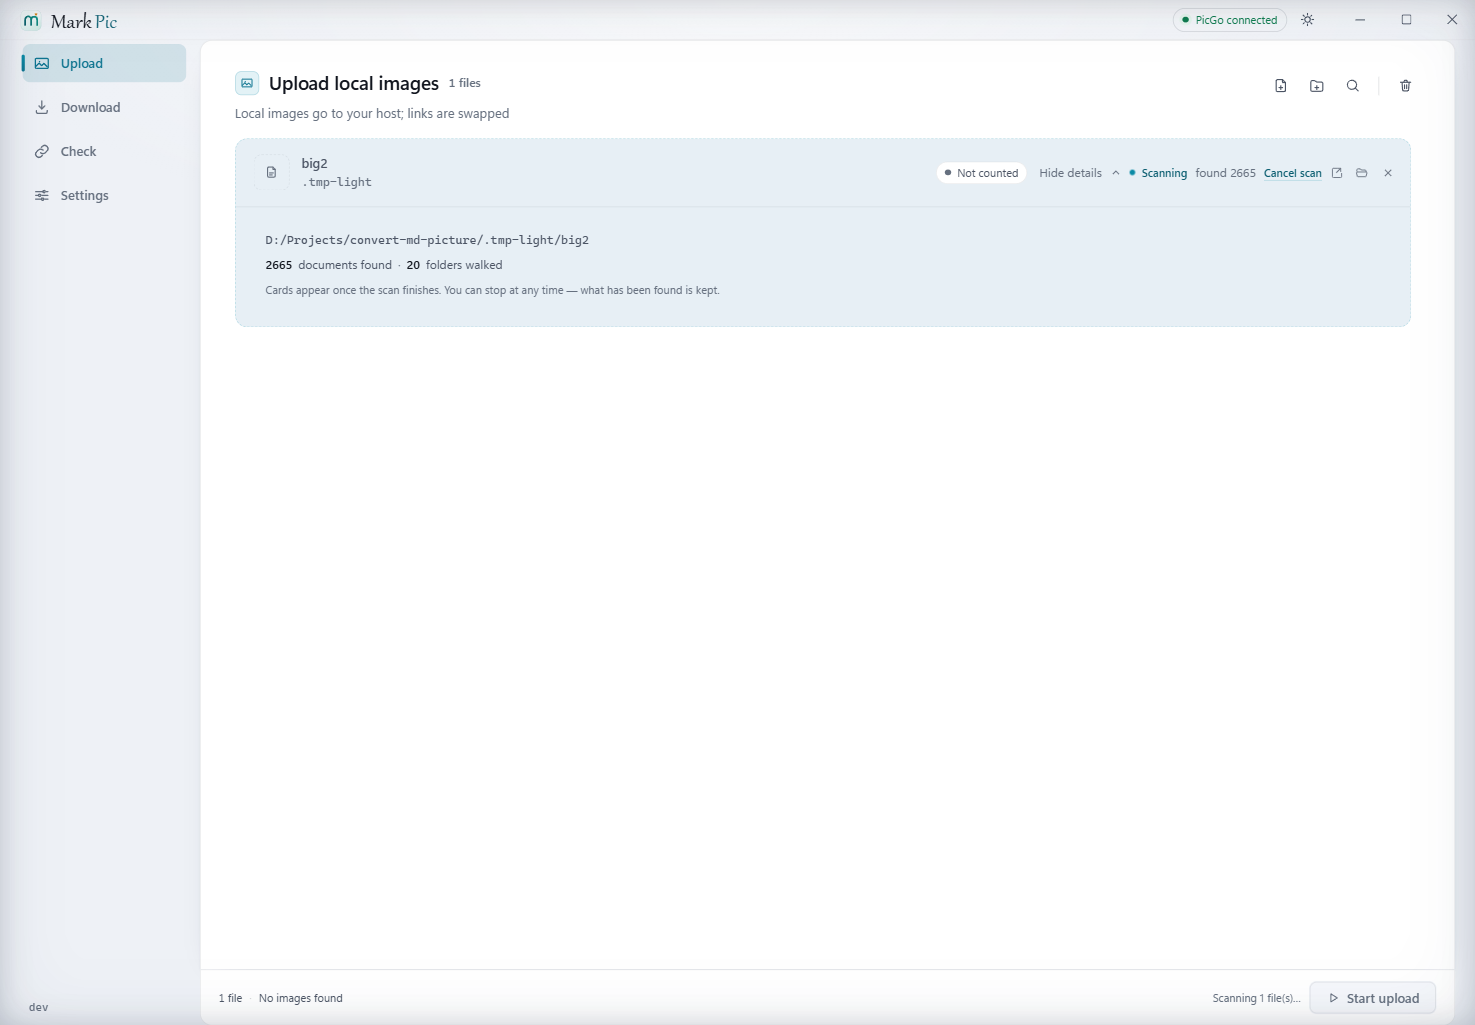
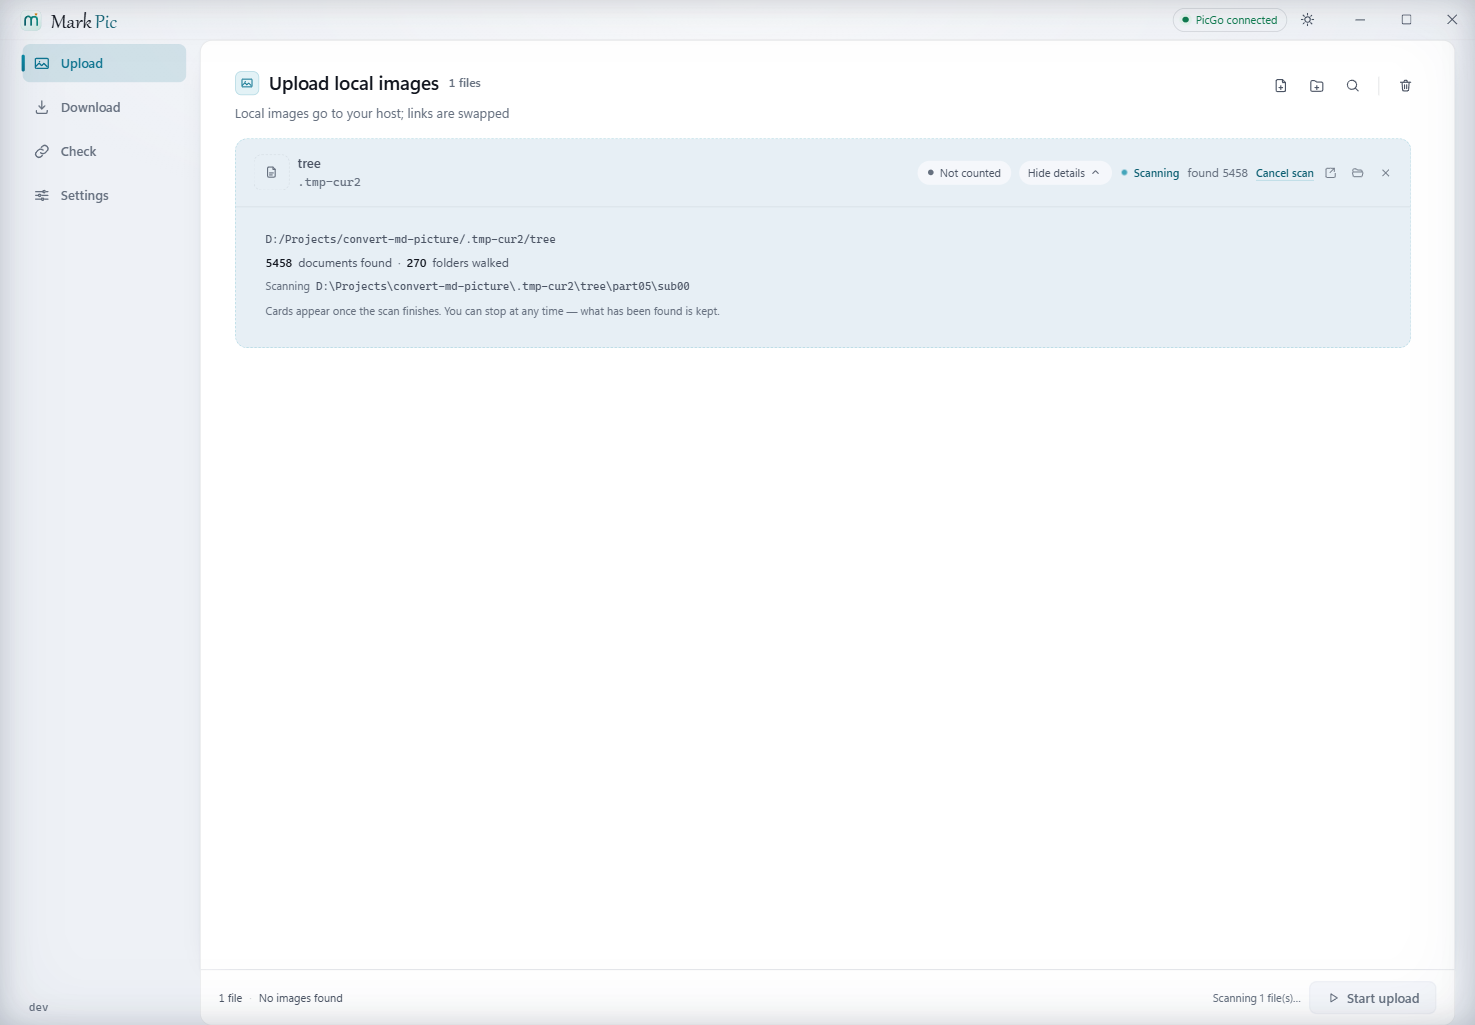
扫描：实时显示「此刻正在读的那个目录」
用户问：扫描时为什么看不到当前扫到哪个路径。原因是进度事件只带了请求的根路径、
已找到多少份、走过多少目录 —— 遍历真正在读的是哪一级子目录，从来没报过。

- conv.WalkCounts 增加 current（atomic.Value）：每个 worker 在 ReadDir 之前记下
  自己正在读的目录；并行遍历下它只是「最近开工的目录」，作为进度提示足够。
- conv.Event 增加 current 字段，scan.progress 两条发射点（每 120ms 一次、收尾一次）
  都带上它。
- 前端：目录卡展开后的扫描详情里多一行「正在扫描 <目录>」，随进度事件实时刷新；
  路径太长时掐头留尾（'…' + 末尾 72 字），把「走到哪一层」露出来，完整路径放 title。
- 截图：中英 scanning.png 都换成亮色、带这一行的版本；README 与 usage 的说明同步
  改成「实时扫描详情，包括此刻正在读的目录」。

验证：真实窗口拖 14,400 份文档的目录，取样到 current 从 part06/sub00 变为
part23/sub07；截图里能看到「正在扫描 …\tree\part13\sub01」。go test ./internal/...
全绿。

Changed region(s): [[0.1871, 0.2185, 0.499, 0.3122], [0.6237, 0.1561, 0.9044, 0.1873], [0.1871, 0.1561, 0.2495, 0.1873]]

diff --git a/web/src/components/FileRow.vue b/web/src/components/FileRow.vue
@@ -475,6 +475,18 @@ const outputLabel = computed<MessageKey>(() =>
  */
 const scanHost = computed(() => !props.row.result && (props.row.scan ?? 'idle') === 'scanning')
 
+/**
+ * 「正在扫描」的那一行路径：留尾部、掐头部。
+ *
+ * 深目录的路径长度很容易把一行撑爆，而真正能告诉用户「走到哪儿了」的是尾部。
+ * 直接截字符而不是 CSS 省略：CSS 的 text-overflow 掐的是尾部，恰好掐掉有用的部分。
+ */
+const scanCurrentLabel = computed(() => {
+  const path = (props.row.scanCurrent ?? '').trim()
+  if (path === '') return ''
+  return path.length > 72 ? '…' + path.slice(-72) : path
+})
+
 /** 能展开的两种情形：有逐图明细，或者它是一张正在扫描的目录卡。 */
 const canExpand = computed(
   () => scanHost.value || (props.row.result?.items?.length ?? 0) > 0,
@@ -698,6 +710,10 @@ function toggleExpanded(): void {
             <span class="scan-info__sep" aria-hidden="true">·</span>
             <span class="scan-info__num">{{ row.scanDirs ?? 0 }}</span>
             {{ t('row.scan.dirs') }}
+          </p>
+          <p v-if="scanCurrentLabel !== ''" class="scan-info__line scan-info__line--current">
+            <span class="scan-info__label">{{ t('row.scan.current') }}</span>
+            <span class="mono scan-info__path" :title="row.scanCurrent">{{ scanCurrentLabel }}</span>
           </p>
           <p class="scan-info__hint">{{ t('row.scan.hint') }}</p>
         </div>
@@ -1281,6 +1297,25 @@ function toggleExpanded(): void {
 
 .scan-info__sep {
   color: var(--ink-3);
+}
+
+.scan-info__line--current {
+  min-width: 0;
+  align-items: center;
+}
+
+.scan-info__label {
+  flex: none;
+  color: var(--ink-3);
+  font-size: var(--fs-1);
+}
+
+.scan-info__path {
+  min-width: 0;
+  overflow: hidden;
+  color: var(--ink-2);
+  font-size: var(--fs-1);
+  white-space: nowrap;
 }
 
 .scan-info__hint {

diff --git a/web/src/i18n/en.ts b/web/src/i18n/en.ts
@@ -455,6 +455,7 @@ export const en: Record<keyof typeof zh, string> = {
   'scan.timeout': 'Scan timed out',
   'scan.found': 'found {count}',
   'row.scan.found': 'documents found',
+  'row.scan.current': 'Scanning',
   'row.scan.dirs': 'folders walked',
   'row.scan.hint': 'Cards appear once the scan finishes. You can stop at any time — what has been found is kept.',
   'scan.stopTitle': 'Stop scanning?',

diff --git a/web/src/i18n/zh.ts b/web/src/i18n/zh.ts
@@ -450,6 +450,7 @@ export const zh = {
   'scan.timeout': '扫描超时',
   'scan.found': '已找到 {count} 份',
   'row.scan.found': '份文档',
+  'row.scan.current': '正在扫描',
   'row.scan.dirs': '个目录',
   'row.scan.hint': '扫描结束后一次性铺开成卡片。随时可以停，已经扫到的会保留。',
   'scan.stopTitle': '停止扫描？',

diff --git a/web/src/types.ts b/web/src/types.ts
@@ -216,6 +216,8 @@ export type ScanEvent =
       /** 到这个时刻为止已经发现多少份文档、走过多少目录。 */
       found?: number
       dirs?: number
+      /** 此刻正在读的那个目录，界面上写成「正在扫描 …」。 */
+      current?: string
     }
   | {
       type: 'scan.file'

diff --git a/web/src/composables/useRun/scan.ts b/web/src/composables/useRun/scan.ts
@@ -217,6 +217,7 @@ export function onScanEvent(event: ScanEvent): void {
   if (event.type === 'scan.progress') {
     host.scanFound = event.found ?? 0
     host.scanDirs = event.dirs ?? 0
+    if (event.current !== undefined) host.scanCurrent = event.current
     return
   }
 

diff --git a/web/src/composables/useRun/types.ts b/web/src/composables/useRun/types.ts
@@ -52,6 +52,8 @@ export interface RunRow {
    */
   scanFound?: number
   scanDirs?: number
+  /** 扫描中此刻正在读的目录（目录卡展开时显示，随事件刷新）。 */
+  scanCurrent?: string
   /**
    * 这一行的扫描属于哪一批。
    *

diff --git a/internal/conv/scan_walk.go b/internal/conv/scan_walk.go
@@ -16,6 +16,22 @@ import (
 type WalkCounts struct {
 	Found atomic.Int64
 	Dirs  atomic.Int64
+	// current 是「此刻正在读的那个目录」。拖动一块盘时，用户最想知道的就是
+	// 「现在走到哪儿了」——只报「已找到 N 份」看不出还在不在动。
+	// 并行遍历下它只是「最近一个开工的目录」，不是严格顺序，作为进度提示足够。
+	current atomic.Value // string
+}
+
+func (c *WalkCounts) setCurrent(dir string) {
+	c.current.Store(dir)
+}
+
+// Current 返回最近开始读取的目录（还没开始走时是空串）。
+func (c *WalkCounts) Current() string {
+	if v, ok := c.current.Load().(string); ok {
+		return v
+	}
+	return ""
 }
 
 // WalkDocuments 递归遍历一个目录，把「能当文档处理」的文件逐个交给 yield。
@@ -83,6 +99,7 @@ func WalkDocuments(ctx context.Context, root, suffix, skipDir string, workers in
 				case <-ctx.Done():
 					return
 				case dir := <-queue:
+					counts.setCurrent(dir)
 					entries, err := os.ReadDir(dir)
 					if err == nil {
 						for _, entry := range entries {

diff --git a/internal/app/scan.go b/internal/app/scan.go
@@ -279,11 +279,12 @@ func (s *scanSession) scanPath(cfg settings.Settings, lang i18n.Lang, path strin
 				return
 			case <-ticker.C:
 				s.app.emit(conv.Event{
-					Type:  conv.EventScanProgress,
-					RunID: s.scanID,
-					Path:  path,
-					Found: int(counts.Found.Load()),
-					Dirs:  int(counts.Dirs.Load()),
+					Type:    conv.EventScanProgress,
+					RunID:   s.scanID,
+					Path:    path,
+					Found:   int(counts.Found.Load()),
+					Dirs:    int(counts.Dirs.Load()),
+					Current: counts.Current(),
 				})
 			}
 		}
@@ -316,11 +317,12 @@ func (s *scanSession) scanPath(cfg settings.Settings, lang i18n.Lang, path strin
 
 	// 收尾再报一次最终数字，界面不用等最后一个 tick。
 	s.app.emit(conv.Event{
-		Type:  conv.EventScanProgress,
-		RunID: s.scanID,
-		Path:  path,
-		Found: int(counts.Found.Load()),
-		Dirs:  int(counts.Dirs.Load()),
+		Type:    conv.EventScanProgress,
+		RunID:   s.scanID,
+		Path:    path,
+		Found:   int(counts.Found.Load()),
+		Dirs:    int(counts.Dirs.Load()),
+		Current: counts.Current(),
 	})
 }
 

diff --git a/internal/conv/types.go b/internal/conv/types.go
@@ -198,6 +198,8 @@ type Event struct {
 	// 走过了多少目录。拖一整块盘时没有总数可报，只能报「已经找到多少」。
 	Found int `json:"found,omitempty"`
 	Dirs  int `json:"dirs,omitempty"`
+	// Current 是此刻正在读的目录，界面上写成「正在扫描 D:\…」。
+	Current string `json:"current,omitempty"`
 }
 
 // 事件类型。

diff --git a/README.md b/README.md
@@ -43,9 +43,10 @@ A document that needs none of this still stops by for a visit — it appears in 
 ### Big folders: streaming scan you can stop
 
 Dropping a whole drive or a cloud-sync root does not freeze the window. The folder row counts
-what has been found so far and expands into the scan details; when the scan finishes it is
-replaced, in one pass, by a card per document. Six thousand files take a couple of seconds
-instead of a timeout dialog.
+what has been found so far and expands into live scan details — how many documents and folders
+so far, and the directory being read right now. When the scan finishes it is replaced, in one
+pass, by a card per document. Six thousand files take a couple of seconds instead of a timeout
+dialog.
 
 ![Scanning a 6,000-file folder: the folder row shows 1,822 documents found so far](docs/images/en/scanning.png)
 

diff --git a/docs/usage.zh-CN.md b/docs/usage.zh-CN.md
@@ -21,7 +21,7 @@
 扫描期间目录本身是一张卡片（显示已找到多少），扫完一次性替换成逐个文档的卡片。
 
 拖进来的目录很大时（整块盘、网盘同步目录），扫描是边扫边报的：目录那一行显示「已经找到
-多少份文档」，点开还能看扫描详情。扫描结束（或你按下停止）时，这一行被一次性换成
+多少份文档」，点开还能看扫描详情（含此刻正在读的目录）。扫描结束（或你按下停止）时，这一行被一次性换成
 「一个文档一张卡片」。扫描没有总时长上限，只按「多久没有动静」判死，随时可以停 ——
 确认之后，已经扫到的那部分照样铺成卡片，那一行也会说清「这个目录剩下的没扫」。
 

diff --git a/docs/usage.md b/docs/usage.md
@@ -24,7 +24,8 @@ ignored. While the scan runs, the folder itself is one card showing what has bee
 when it ends the row is replaced in one pass by a card per document.
 
 A big folder (a whole drive, a cloud sync root) is scanned while you watch: the folder row
-shows how many documents have been found so far and expands into the scan details. When the
+shows how many documents have been found so far and expands into the scan details, including
+the directory currently being read. When the
 scan finishes — or you stop it — the row is replaced in one pass by a card per document.
 Scanning has no overall time limit, only an inactivity watchdog, and you can stop it at any time;
 after confirming, everything already found stays in the queue and the row tells you the rest
